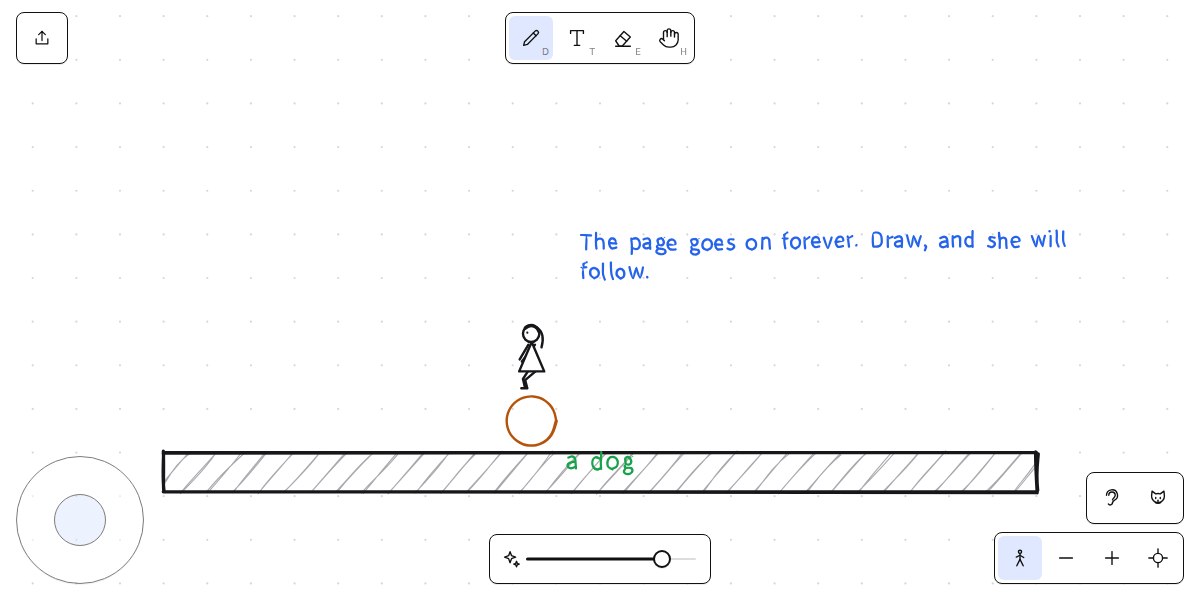
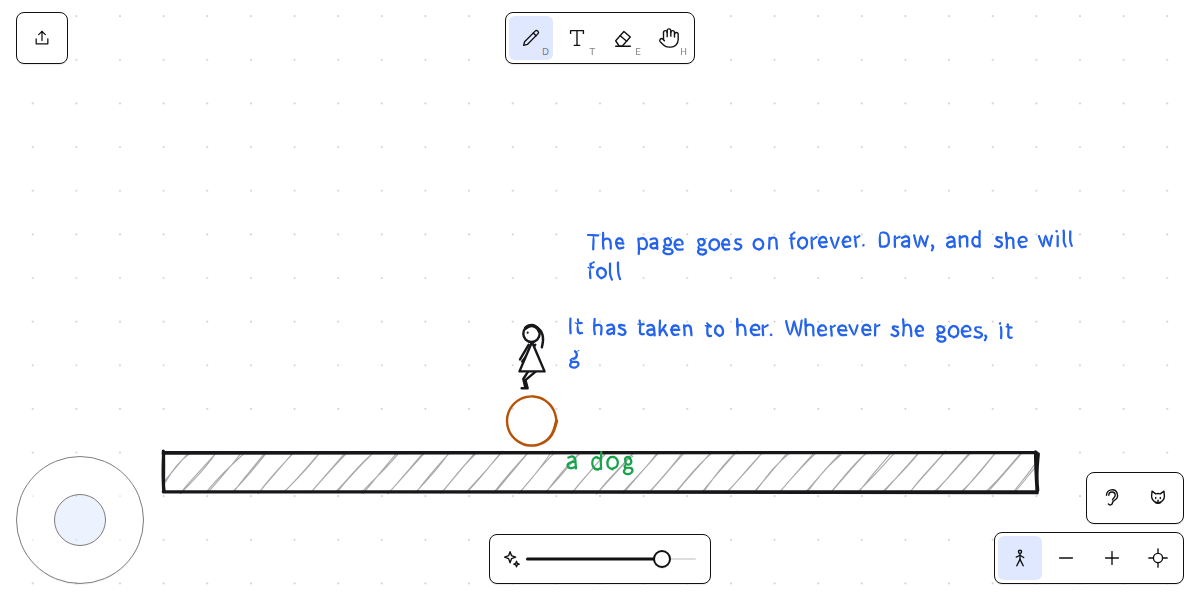
Notes: a free note flips sides instead of leaving the screen

Changed region(s): [[0.4625, 0.39, 0.8942, 0.48], [0.4317, 0.54, 0.8633, 0.63]]

diff --git a/src/game/noteBook.ts b/src/game/noteBook.ts
@@ -37,6 +37,7 @@ export interface NotePlacement {
   readonly drift?: Drift;
   readonly minY?: number;
   readonly obstacles?: readonly Rect[];
+  readonly within?: Rect;
 }
 
 /** Everything written on the board, as pen scripts ready to be revealed stroke by stroke. */
@@ -47,9 +48,9 @@ export class NoteBook {
   constructor(private readonly handwriting: Handwriting) {}
 
   /** Inscribes the note and returns it as placed, which may sit above or below where it was asked for. */
-  write({ note, nowMs, lifetimeMs, anchor, drift, minY, obstacles }: NotePlacement): Note {
+  write({ note, nowMs, lifetimeMs, anchor, drift, minY, obstacles, within }: NotePlacement): Note {
     const placed =
-      drift === undefined ? note : this.clearSpotFor(note, drift, minY, obstacles ?? []);
+      drift === undefined ? note : this.clearSpotFor(note, drift, minY, obstacles ?? [], within);
     return this.inscribe(placed, nowMs, anchor ?? null, lifetimeMs).note;
   }
 
@@ -164,10 +165,11 @@ export class NoteBook {
     drift: Drift,
     minY: number | undefined,
     obstacles: readonly Rect[],
+    within: Rect | undefined,
   ): Note {
     const wanted = this.scriptFor(note, this.seed + 1).bounds;
     const taken = [...this.entries.values()].map((entry) => entry.script.bounds).concat(obstacles);
-    const settled = settle(wanted, taken, drift, minY);
+    const settled = settle(wanted, taken, drift, minY, within);
     const position = {
       x: note.position.x + settled.x - wanted.x,
       y: note.position.y + settled.y - wanted.y,

diff --git a/src/game/noteLayout.test.ts b/src/game/noteLayout.test.ts
@@ -48,4 +48,24 @@ describe("settle", () => {
     expect(placed.y).toBeGreaterThanOrEqual(minY);
     expect(rectsOverlap({ ...LINE, ...placed }, intro)).toBe(false);
   });
+
+  it("flips to the other side rather than leaving within", () => {
+    const taken = [at(200)];
+    const within = { x: 0, y: 100, width: 500, height: 136 };
+    const placed = settle(LINE, taken, "down", Number.NEGATIVE_INFINITY, within);
+
+    expect(placed.y).toBeLessThan(200);
+    expect(placed.y + LINE.height).toBeLessThanOrEqual(within.y + within.height);
+    expect(taken.some((rect) => rectsOverlap({ ...LINE, ...placed }, rect))).toBe(false);
+  });
+
+  it("returns origin when nothing fits within", () => {
+    const taken = [at(200)];
+    const within = { x: 0, y: 200, width: 500, height: 30 };
+
+    expect(settle(LINE, taken, "down", Number.NEGATIVE_INFINITY, within)).toEqual({
+      x: LINE.x,
+      y: LINE.y,
+    });
+  });
 });

diff --git a/src/game/game.test.ts b/src/game/game.test.ts
@@ -2082,9 +2082,19 @@ describe("Game in the Sandbox", () => {
       notebook.fleetingBy("kami").some(({ id }) => id === note.id),
     );
     const alice = player.sim.aliceBounds(0);
+    const viewport = player.renderer.viewport();
+    const visible = { x: 0, y: 0, width: viewport.width, height: viewport.height };
     for (const note of notes) {
       expect(rectsOverlap(note.script.bounds, ENDLESS_GROUND)).toBe(false);
       expect(rectsOverlap(note.script.bounds, alice)).toBe(false);
+      expect(note.script.bounds.x).toBeGreaterThanOrEqual(visible.x);
+      expect(note.script.bounds.y).toBeGreaterThanOrEqual(visible.y);
+      expect(note.script.bounds.x + note.script.bounds.width).toBeLessThanOrEqual(
+        visible.x + visible.width,
+      );
+      expect(note.script.bounds.y + note.script.bounds.height).toBeLessThanOrEqual(
+        visible.y + visible.height,
+      );
     }
   });
 

diff --git a/src/game/noteLayout.ts b/src/game/noteLayout.ts
@@ -14,15 +14,18 @@ export const settle = (
   taken: readonly Rect[],
   drift: Drift,
   minY = Number.NEGATIVE_INFINITY,
+  within?: Rect,
 ): Vec => {
   const origin = { x: wanted.x, y: Math.max(wanted.y, minY) };
   if (clearOf({ ...wanted, ...origin }, taken)) return origin;
+  const inside = (y: number): boolean =>
+    within === undefined || (y >= within.y && y + wanted.height <= within.y + within.height);
   const edges = taken
     .flatMap((rect) => [
       rect.y - wanted.height - BREATHING_ROOM,
       rect.y + rect.height + BREATHING_ROOM,
     ])
-    .filter((y) => y >= minY);
+    .filter((y) => y >= minY && inside(y));
   const priority = (y: number): number => {
     const distance = y - origin.y;
     if (Math.abs(distance) > (wanted.height + BREATHING_ROOM) * PREFERRED_LINE_DISTANCE) return 2;

diff --git a/src/game/game.ts b/src/game/game.ts
@@ -1781,7 +1781,9 @@ export class Game implements CanvasInputSink, InkSessionListener, HudHandlers, L
       ...(lifetimeMs === undefined ? {} : { lifetimeMs }),
       ...(anchor === undefined ? {} : { anchor }),
       ...(minY === undefined ? {} : { minY }),
-      ...(anchor === undefined ? { obstacles: this.obstacles() } : {}),
+      ...(anchor === undefined
+        ? { obstacles: this.obstacles(), within: this.visibleWorldRect() }
+        : {}),
     });
   }
 
